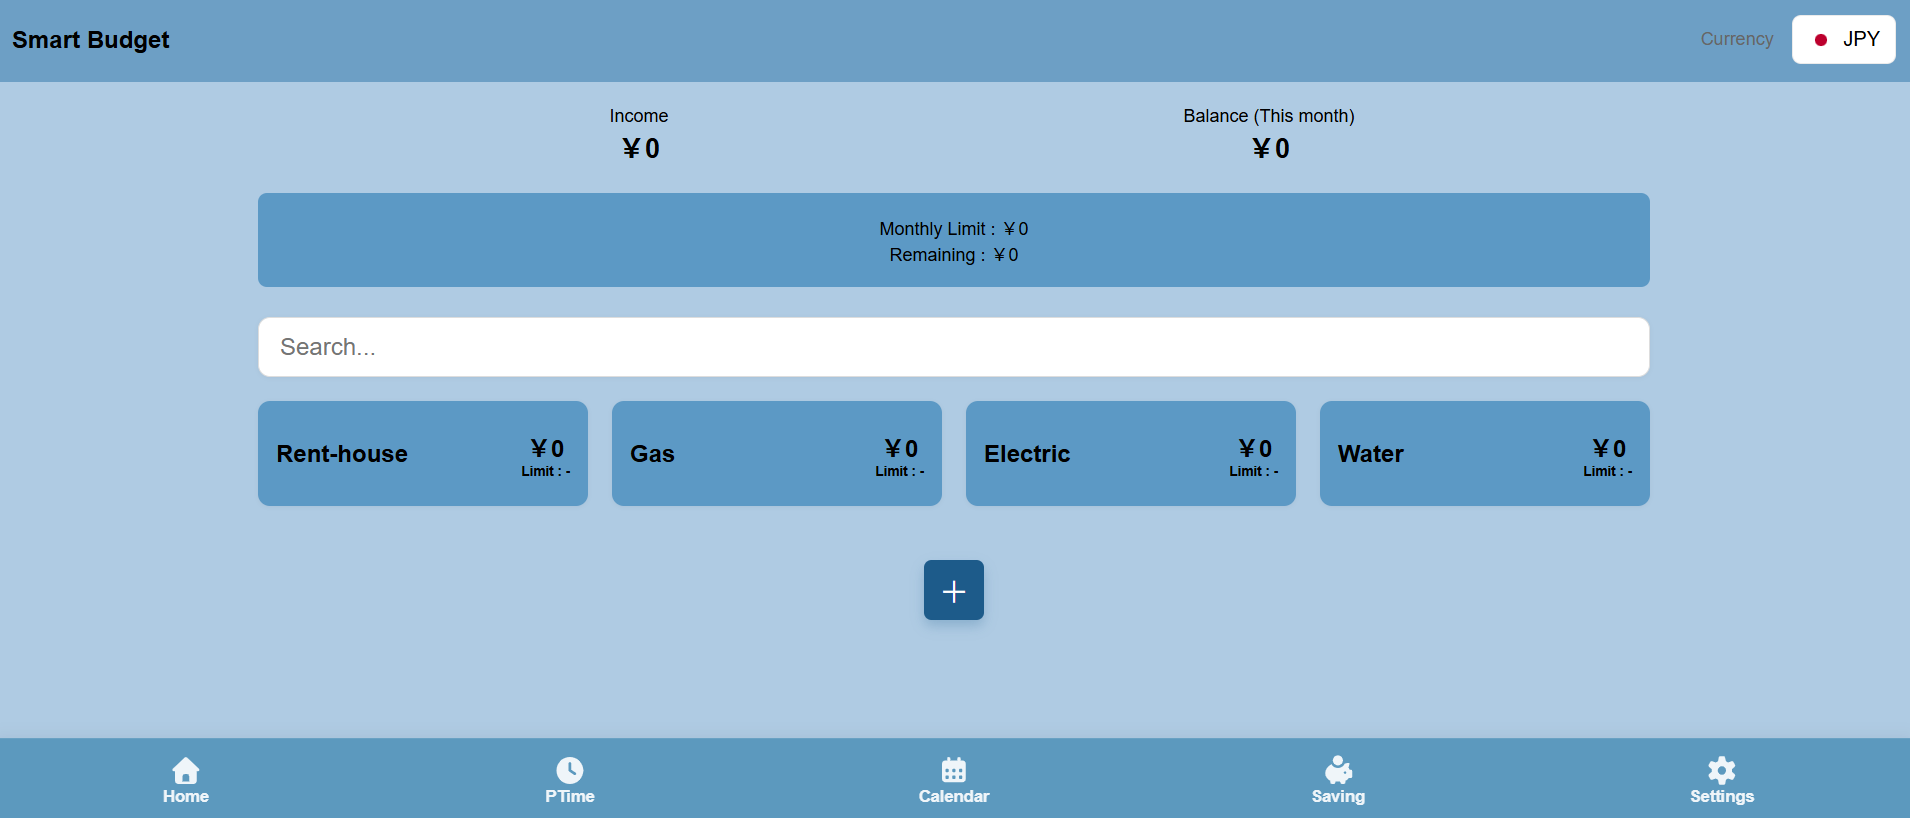
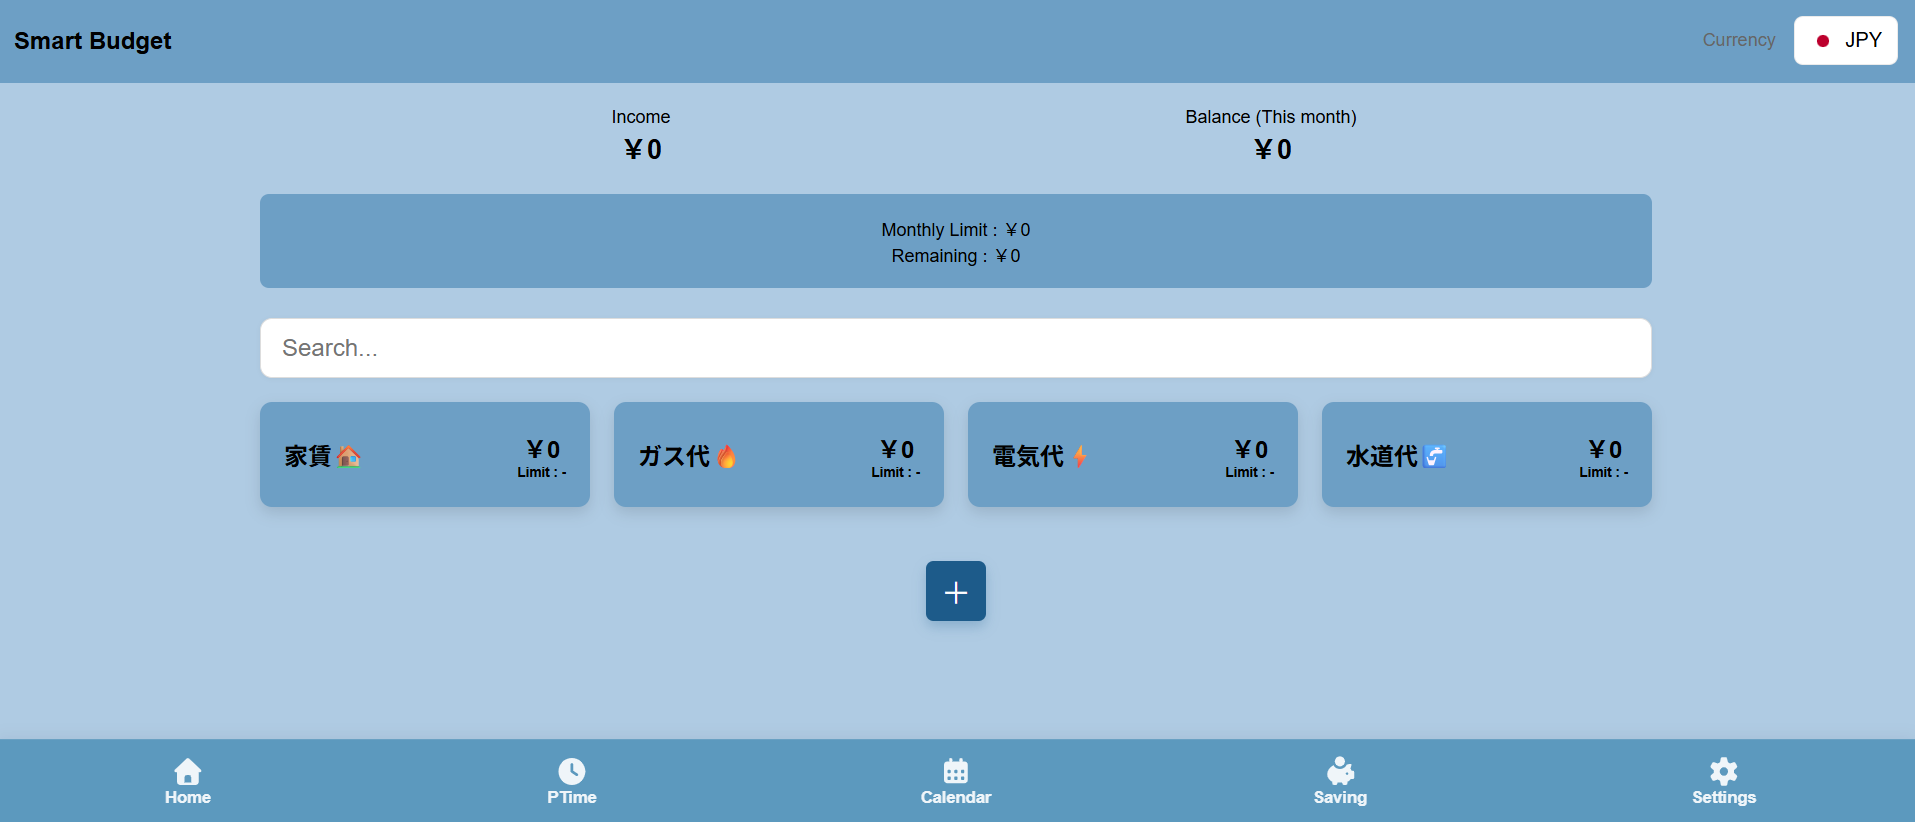
fix

diff --git a/app/_components/work/page.tsx b/app/_components/work/page.tsx
@@ -43,7 +43,7 @@ export default function WorkPage() {
             <div className={styles.work}>
               <h3 className={styles.workTitle}>Smart Budget</h3>
               <p>チームで作った家計簿アプリ（卒業制作）</p>
-              <Link href="https://github.com/Zayar0098/smart-budget/tree/dev-zayar" target="_blank" className={styles.link}>GitHub リポジトリはこちら →</Link>
+              <Link href="hhttps://github.com/Kanny-git/school-project" target="_blank" className={styles.link}>GitHub リポジトリはこちら →</Link>
               <br />
                <Link href="https://smtbudget.vercel.app" target="_blank">
                 <div className={styles.demoLink}>View Demo ⇀</div>
